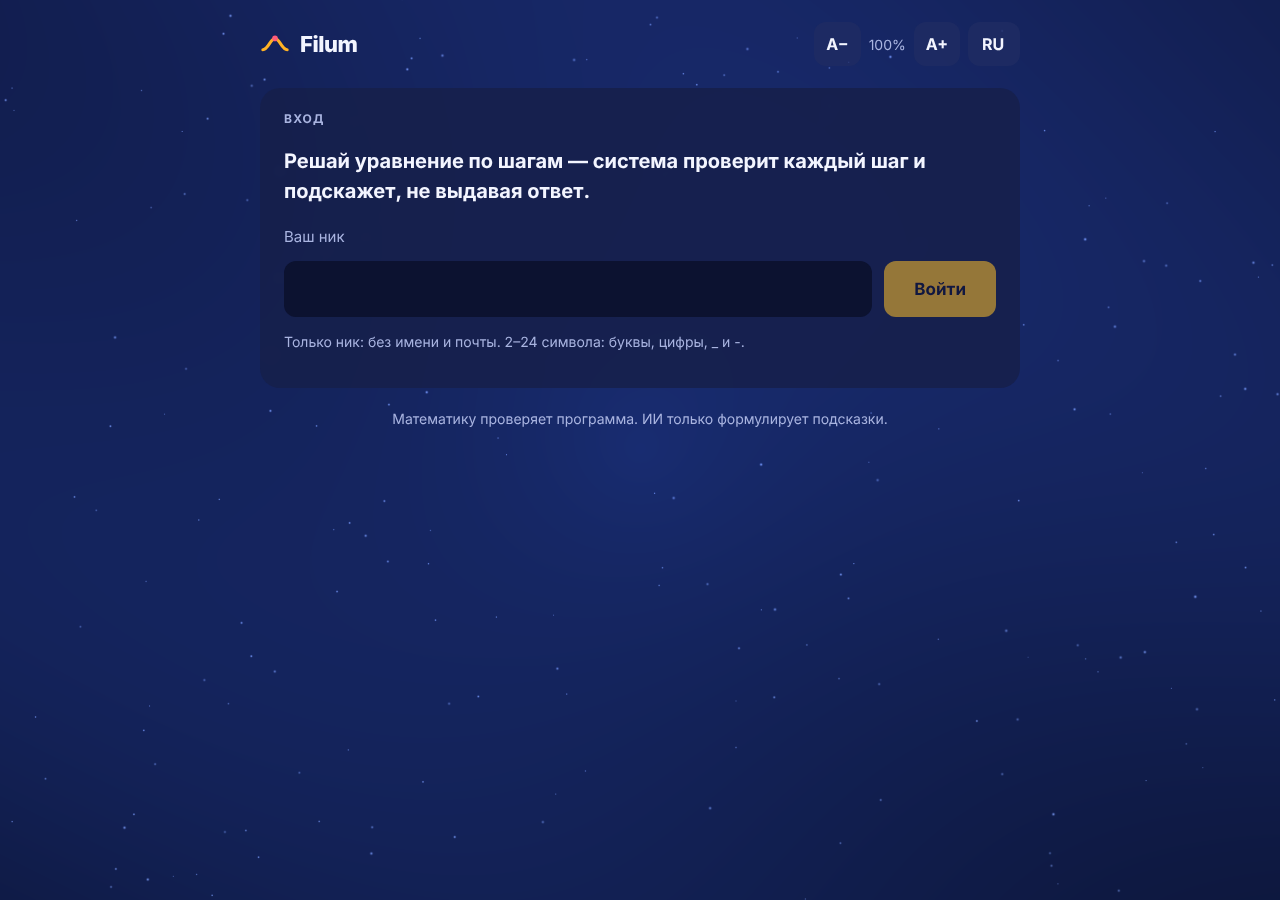
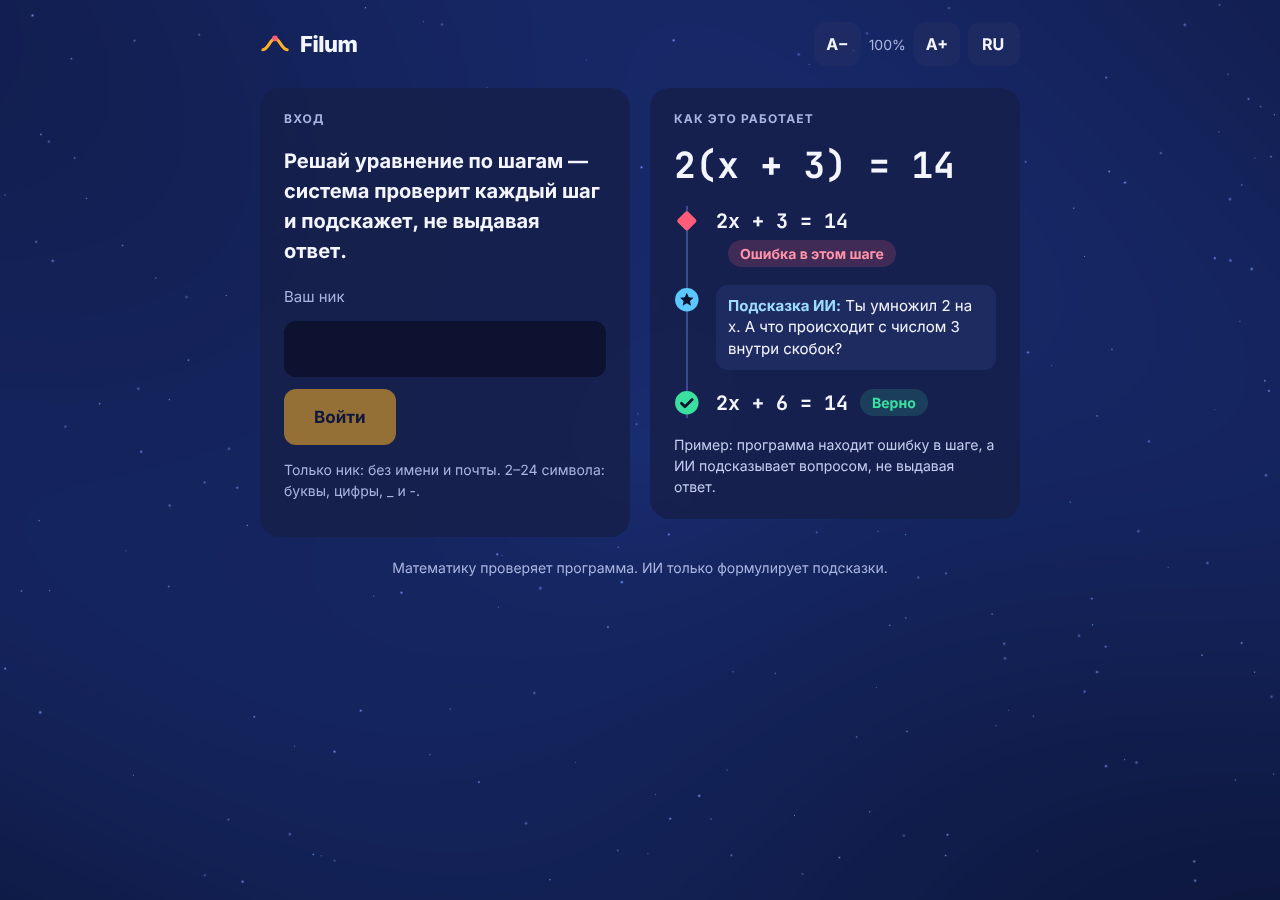
Login page: title Filum and a static example next to the login card
Static solution thread (error / AI hint / correct, markers + text badges) to
the right of the card on desktop and below it on phones. Tab title is now
Filum. Login logic, API and nickname texts unchanged.

Claude-Session: https://claude.ai/code/session_01J7pfwreDsbvQRh4HEe7DEq

Changed region(s): [[0.2188, 0.0933, 0.7812, 0.5911], [0.3125, 0.6222, 0.6875, 0.6533]]

diff --git a/frontend/src/components/LoginDemo.tsx b/frontend/src/components/LoginDemo.tsx
@@ -1,0 +1,54 @@
+import { t, type Lang } from "../i18n";
+
+/** Static example next to the login card: what Filum does, at a glance. Not interactive. */
+function CheckMarker() {
+  return (
+    <svg className="demo-marker" viewBox="0 0 24 24" aria-hidden="true" focusable="false">
+      <circle cx="12" cy="12" r="11" fill="var(--ok)" />
+      <path d="M7 12.5l3.2 3.2L17 9" fill="none" stroke="var(--bg)" strokeWidth="2.6" strokeLinecap="round" strokeLinejoin="round" />
+    </svg>
+  );
+}
+
+function ErrorMarker() {
+  return (
+    <svg className="demo-marker" viewBox="0 0 24 24" aria-hidden="true" focusable="false">
+      <rect x="5" y="5" width="14" height="14" rx="2.5" transform="rotate(45 12 12)" fill="var(--err)" />
+    </svg>
+  );
+}
+
+function AiMarker() {
+  return (
+    <svg className="demo-marker" viewBox="0 0 24 24" aria-hidden="true" focusable="false">
+      <circle cx="12" cy="12" r="11" fill="var(--ai)" />
+      <path d="M12 5.5l1.9 4.1 4.4.5-3.3 3 .9 4.4L12 15.3l-3.9 2.2.9-4.4-3.3-3 4.4-.5z" fill="var(--bg)" />
+    </svg>
+  );
+}
+
+export function LoginDemo({ lang }: { lang: Lang }) {
+  return (
+    <section className="panel login-demo" aria-labelledby="demo-title">
+      <h2 className="label" id="demo-title">{t(lang, "demo.title")}</h2>
+      <p className="task demo-task">2(x + 3) = 14</p>
+      <ol className="demo-thread">
+        <li>
+          <ErrorMarker />
+          <span className="expr mono">2x + 3 = 14</span>
+          <span className="badge err">{t(lang, "status.error")}</span>
+        </li>
+        <li>
+          <AiMarker />
+          <span className="demo-hint"><b>{t(lang, "demo.hint_label")}:</b> {t(lang, "demo.hint_text")}</span>
+        </li>
+        <li>
+          <CheckMarker />
+          <span className="expr mono">2x + 6 = 14</span>
+          <span className="badge ok">{t(lang, "status.correct")}</span>
+        </li>
+      </ol>
+      <p className="small soft" style={{ margin: "1rem 0 0" }}>{t(lang, "demo.caption")}</p>
+    </section>
+  );
+}

diff --git a/frontend/src/styles/app.css b/frontend/src/styles/app.css
@@ -159,3 +159,16 @@ details summary { cursor: pointer; color: var(--soft); min-height: 2.75rem; disp
   .panel, .hint, .done, .stat { border: 1px solid CanvasText; }
   .node { forced-color-adjust: none; }
 }
+
+/* ---------- login: card + static example (right on desktop, below on phones) ---------- */
+.login-layout { display: grid; grid-template-columns: 1fr; gap: 1.25rem; align-items: start; }
+@media (min-width: 900px) { .login-layout { grid-template-columns: 1fr 1fr; } }
+.demo-task { font-size: clamp(1.75rem, 4vw, 2.25rem); margin: 0.25rem 0 1.25rem; }
+.demo-thread { list-style: none; margin: 0 0 0 0.75rem; padding: 0 0 0 1.75rem; border-left: 2px solid var(--line);
+  display: flex; flex-direction: column; gap: 1.125rem; }
+.demo-thread li { position: relative; display: flex; flex-wrap: wrap; align-items: center; gap: 0.25rem 0; }
+.demo-marker { position: absolute; left: -2.6rem; top: 0.125rem; width: 1.6rem; height: 1.6rem; }
+.demo-thread .expr { font-size: 1.25rem; }
+.demo-hint { font-size: 0.9375rem; line-height: 1.45; color: var(--fg); background: rgba(31, 44, 99, .92);
+  border-radius: 0.75rem; padding: 0.625rem 0.75rem; }
+.demo-hint b { color: var(--ai-soft); font-weight: 700; }

diff --git a/frontend/src/pages/Login.tsx b/frontend/src/pages/Login.tsx
@@ -1,6 +1,7 @@
 import { useState } from "react";
 import { api, ApiError } from "../api";
 import { useFocusOnMount } from "../components/a11y";
+import { LoginDemo } from "../components/LoginDemo";
 import { t, type Lang } from "../i18n";
 
 export function Login({ lang, onDone, notice }: { lang: Lang; onDone: (sid: string, token: string) => void; notice?: string }) {
@@ -25,6 +26,7 @@ export function Login({ lang, onDone, notice }: { lang: Lang; onDone: (sid: stri
   }
 
   return (
+    <div className="login-layout">
     <form className="panel" onSubmit={submit} aria-labelledby="login-title">
       <h2 className="label" id="login-title" ref={heading} tabIndex={-1}>{t(lang, "login.title")}</h2>
       {notice && <p className="hint" role="status">{notice}</p>}
@@ -36,5 +38,7 @@ export function Login({ lang, onDone, notice }: { lang: Lang; onDone: (sid: stri
       <p id="nick-hint" className="small muted">{t(lang, "login.nick_hint")}</p>
       {error && <p className="msg error-text" role="alert">{error}</p>}
     </form>
+    <LoginDemo lang={lang} />
+    </div>
   );
 }

diff --git a/frontend/src/i18n/ru.ts b/frontend/src/i18n/ru.ts
@@ -94,6 +94,10 @@ const ru: Dict = {
   "start.level_C": "x в обеих частях, скобки, отрицательные множители",
   "solve.level": "уровень {level}",
   "solve.next_problem": "Следующая задача",
+  "demo.title": "Как это работает",
+  "demo.hint_label": "Подсказка ИИ",
+  "demo.hint_text": "Ты умножил 2 на x. А что происходит с числом 3 внутри скобок?",
+  "demo.caption": "Пример: программа находит ошибку в шаге, а ИИ подсказывает вопросом, не выдавая ответ.",
   "login.nick": "Ваш ник",
   "login.nick_hint": "Только ник: без имени и почты. 2–24 символа: буквы, цифры, _ и -.",
   "login.go": "Войти",

diff --git a/frontend/src/i18n/en.ts b/frontend/src/i18n/en.ts
@@ -94,6 +94,10 @@ const en: Dict = {
   "start.level_C": "x on both sides, brackets, negative factors",
   "solve.level": "level {level}",
   "solve.next_problem": "Next problem",
+  "demo.title": "How it works",
+  "demo.hint_label": "AI hint",
+  "demo.hint_text": "You multiplied x by 2. What happens to the 3 inside the brackets?",
+  "demo.caption": "Example: the program finds the error in a step, and the AI hints with a question without giving the answer.",
   "login.nick": "Your nickname",
   "login.nick_hint": "Nickname only: no name or email. 2–24 characters: letters, digits, _ and -.",
   "login.go": "Enter",

diff --git a/frontend/index.html b/frontend/index.html
@@ -3,7 +3,7 @@
   <head>
     <meta charset="UTF-8" />
     <meta name="viewport" content="width=device-width, initial-scale=1.0" />
-    <title>ThinkTrace AI</title>
+    <title>Filum</title>
   </head>
   <body>
     <div id="root"></div>
